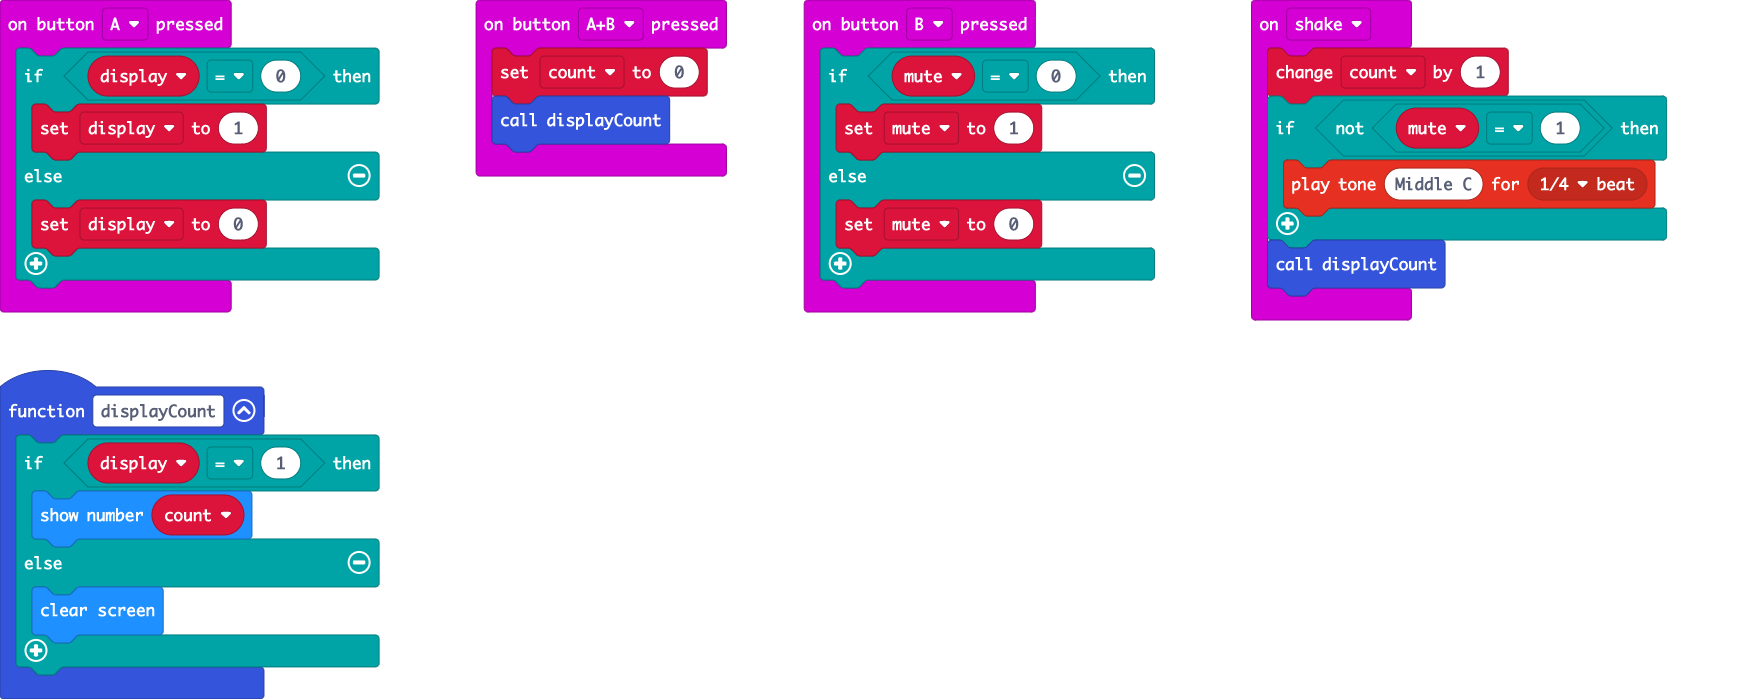
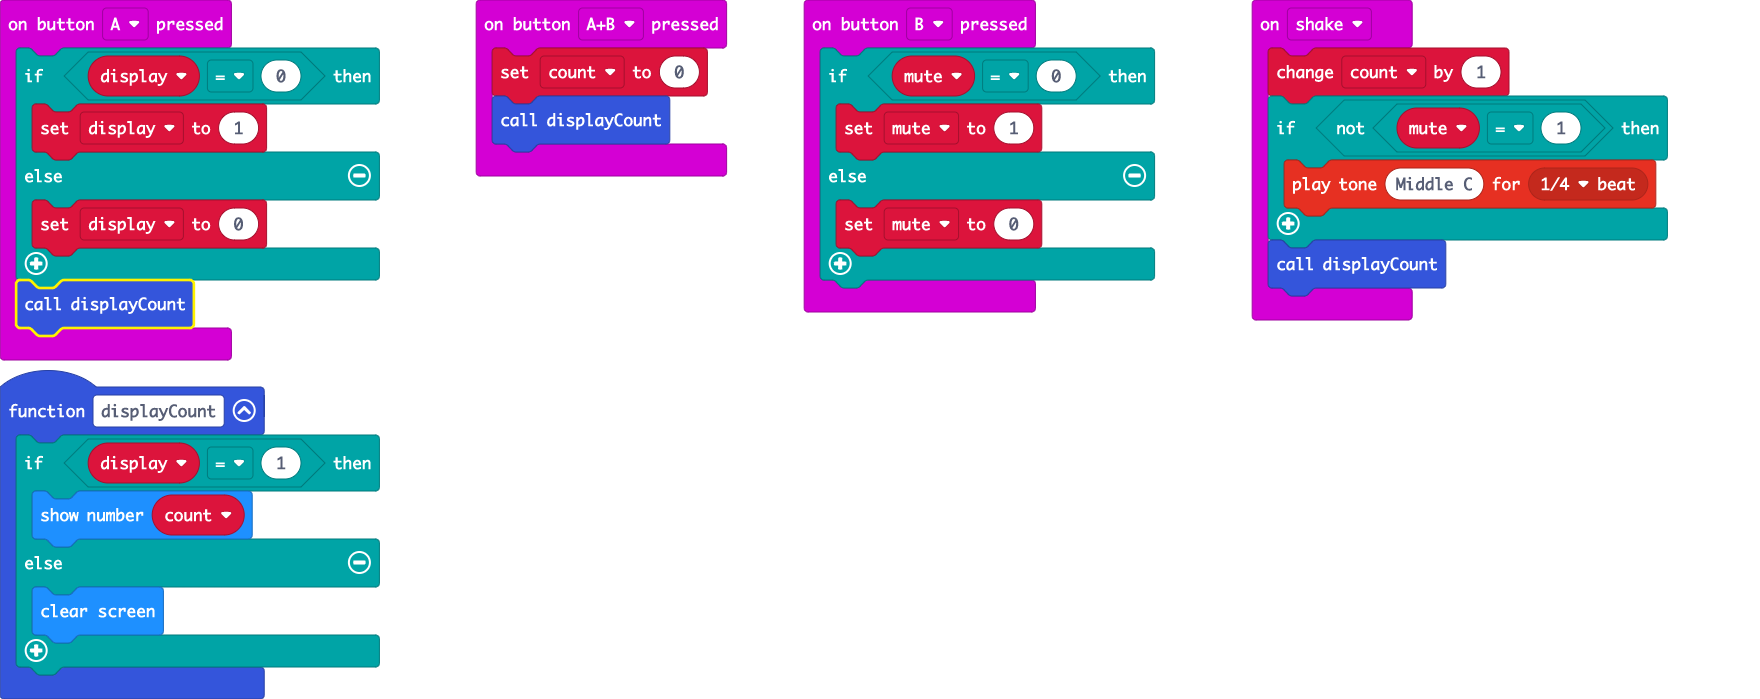
display count on press a

diff --git a/main.ts b/main.ts
@@ -7,6 +7,7 @@ input.onButtonPressed(Button.A, function () {
     } else {
         display = 0
     }
+    displayCount()
 })
 function displayCount () {
     if (display == 1) {
